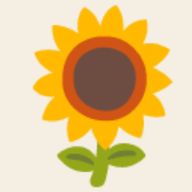
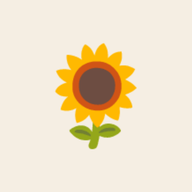
待辦區塊：工作與事業合併，新增購物、朋友、家人；App 圖示向日葵縮小
資料格式升級到版本 6，升級前自動備份；舊的「工作」「事業」任務改到「工作與事業」。

Claude-Session: https://claude.ai/code/session_01LfbQjq9Qd56uFV6H2tTUsn

diff --git a/index.html b/index.html
@@ -11,8 +11,8 @@
 <meta name="apple-mobile-web-app-capable" content="yes">
 <meta name="apple-mobile-web-app-status-bar-style" content="default">
 <link rel="manifest" href="manifest.webmanifest">
-<link rel="apple-touch-icon" href="icons/apple-touch-icon.png?v=2">
-<link rel="icon" type="image/png" sizes="32x32" href="icons/favicon-32.png?v=2">
+<link rel="apple-touch-icon" href="icons/apple-touch-icon.png?v=3">
+<link rel="icon" type="image/png" sizes="32x32" href="icons/favicon-32.png?v=3">
 <link rel="preconnect" href="https://fonts.googleapis.com">
 <link href="https://fonts.googleapis.com/css2?family=Noto+Serif+TC:wght@600;700&display=swap" rel="stylesheet">
 <style>
@@ -615,6 +615,9 @@ const P = {
   star:'<path d="M12 3l2 6.3 6.5 2.7-6.5 2.7L12 21l-2-6.3L3.5 12 10 9.3z"/>',
   work:'<rect x="3" y="7" width="18" height="13" rx="3"/><path d="M9 7V5.5A1.5 1.5 0 0 1 10.5 4h3A1.5 1.5 0 0 1 15 5.5V7M3 12.5h18"/>',
   biz:'<path d="M3 17l6-6 4 4 8-8"/><path d="M15 7h6v6"/>',
+  bag:'<path d="M5.5 8h13l-1.2 12h-10.6z"/><path d="M9 8V6.5a3 3 0 0 1 6 0V8"/>',
+  friends:'<circle cx="9" cy="9" r="3"/><circle cx="16.5" cy="10" r="2.4"/><path d="M3.5 19a5.5 5.5 0 0 1 11 0"/><path d="M14.2 15.3a4.4 4.4 0 0 1 6.3 3.7"/>',
+  family:'<path d="M4 11l8-6.5 8 6.5"/><path d="M6 9.5V20h12V9.5"/><path d="M12 17.2s-3-1.8-3-3.7a1.6 1.6 0 0 1 3-.8 1.6 1.6 0 0 1 3 .8c0 1.9-3 3.7-3 3.7z"/>',
   cam:'<path d="M4 8h3l2-3h6l2 3h3a1 1 0 0 1 1 1v9a1 1 0 0 1-1 1H4a1 1 0 0 1-1-1V9a1 1 0 0 1 1-1z"/><circle cx="12" cy="13" r="3.5"/>',
   wallet:'<rect x="3" y="6" width="18" height="14" rx="3"/><path d="M3 10h18M16 15h2"/>',
   book:'<path d="M4 19V5.5A2.5 2.5 0 0 1 6.5 3H20v15H6.5A2.5 2.5 0 0 0 4 20.5 2.5 2.5 0 0 0 6.5 23H20v-5"/>',
@@ -643,14 +646,17 @@ Object.assign(P, {
 const ic = (n, cls="") => `<svg class="i ${cls}" viewBox="0 0 24 24">${P[n]||""}</svg>`;
 
 /* ================= 2. 常數與共用工具 ================= */
-const CATS = ["工作","事業","內容創作","財務","學習","生活"];
+const CATS = ["工作與事業","內容創作","財務","學習","生活","購物","朋友","家人"];
+const OLD_WORK_CATS = ["工作","事業"];   // 版本 6 起合併為「工作與事業」
 const CAT = {
-  "工作":    {icon:"work",  ds:"任務、專案、工作進度、待辦事項"},
-  "事業":    {icon:"biz",   ds:"商業點子、收入計畫、執行進度"},
+  "工作與事業":{icon:"work", ds:"工作進度、專案、商業點子、收入計畫"},
   "內容創作":{icon:"cam",   ds:"IG 靈感、腳本、發文紀錄"},
   "財務":    {icon:"wallet",ds:"收入、支出、存款、目標"},
   "學習":    {icon:"book",  ds:"課程、筆記、技能"},
-  "生活":    {icon:"heart", ds:"心情、習慣、生活"}
+  "生活":    {icon:"heart", ds:"心情、習慣、生活"},
+  "購物":    {icon:"bag",   ds:"要買的東西、下單、補貨"},
+  "朋友":    {icon:"friends",ds:"聚會、約見面、朋友的事"},
+  "家人":    {icon:"family",ds:"家人的事、陪伴、家裡的安排"}
 };
 const PRI_ORDER = {"高":0,"中":1,"低":2};
 const uid = () => Date.now().toString(36)+Math.random().toString(36).slice(2,8);
@@ -683,7 +689,7 @@ const D = {
 /* ================= 4. 資料層 ================= */
 const KEY = "lifebox_v1";             // 不更改，舊資料持續可用
 const BK_KEY = "lifebox_v1_backups";  // 本機自動備份（最多 8 份）
-const SCHEMA = 5;
+const SCHEMA = 6;
 const Store = {
   load(){
     let raw=null, d=null;
@@ -742,6 +748,10 @@ const Store = {
     st.successes.forEach(x=>{ if(!Array.isArray(x.photos)) x.photos=[]; });
     d.wishlist.forEach(w=>wishNormalize(w));
     if((d.schemaVersion||1) < 5) d.schemaVersion=5;
+    // 版本 6：「工作」「事業」合併為「工作與事業」；新增「購物」「朋友」「家人」（只改區塊名稱，其他內容不動）
+    (d.todos||[]).forEach(t=>{ if(OLD_WORK_CATS.includes(t.category)) t.category="工作與事業"; if(OLD_WORK_CATS.includes(t.cat)) t.cat="工作與事業"; });
+    (d.results||[]).forEach(r=>{ if(OLD_WORK_CATS.includes(r.cat)) r.cat="工作與事業"; });
+    if((d.schemaVersion||1) < 6) d.schemaVersion=6;
     let maxOrder=d.todos.reduce((m,t)=>Math.max(m, Number.isFinite(t.sortOrder)?t.sortOrder:0),0);
     d.todos.forEach(t=>{ Tasks.normalize(t,T); if(!Number.isFinite(t.sortOrder)) t.sortOrder=++maxOrder; });
     return d;
@@ -771,7 +781,7 @@ const Tasks = {
   normalize(t, T){
     const now=Date.now();
     if(t.title==null) t.title = t.text ?? "";
-    if(t.category==null) t.category = CATS.includes(t.cat) ? t.cat : "生活";
+    if(t.category==null) t.category = CATS.includes(t.cat) ? t.cat : (OLD_WORK_CATS.includes(t.cat) ? "工作與事業" : "生活");
     if(t.priority==null) t.priority = PRI_ORDER[t.pri]!==undefined ? t.pri : "中";
     if(t.createdAt==null) t.createdAt = t.created ?? now;
     if(t.status!=="open" && t.status!=="done") t.status = t.done ? "done" : "open";
@@ -874,12 +884,14 @@ const Tasks = {
 
 /* ================= 6. 文字解析（規則判斷，不是 AI） ================= */
 const KW = {
-  "工作":["工作","會議","開會","報告","客戶","專案","老闆","主管","同事","簡報","email","信件","回信","提案","上班","公司","面試","履歷","交件"],
-  "事業":["事業","生意","創業","收入計畫","業績","下線","團隊","招募","銷售","訂單","產品","商業","點子","經營","客人","代理","合作","品牌"],
+  "工作與事業":["工作","會議","開會","報告","客戶","專案","老闆","主管","同事","簡報","email","信件","回信","提案","上班","公司","面試","履歷","交件","事業","生意","創業","收入計畫","業績","下線","團隊","招募","銷售","產品","商業","點子","經營","客人","代理","合作","品牌"],
   "內容創作":["ig","instagram","貼文","限動","限時動態","腳本","拍","影片","reels","靈感","剪輯","發文","文案","直播","粉絲","創作","youtube","小紅書","素材"],
   "財務":["錢","記帳","存款","存錢","支出","花費","繳","費","預算","保險","投資","卡費","薪水","房租","帳單","貸款","理財","股票"],
   "學習":["學","課","書","讀","筆記","技能","練習","英文","日文","考試","證照","研究","線上課"],
-  "生活":["運動","健身","睡","心情","家","吃","煮","買","醫生","朋友","家人","旅行","打掃","整理房間","習慣","喝水","休息","散步","洗衣","約"]
+  "生活":["運動","健身","睡","心情","吃","煮","醫生","旅行","打掃","整理房間","習慣","喝水","休息","散步","洗衣"],
+  "購物":["買","下單","購物","網購","蝦皮","團購","補貨","採買","訂購","超市","全聯","好市多","日用品","生活用品","購買","退貨","包裹","取貨"],
+  "朋友":["朋友","閨蜜","好友","同學","聚會","聚餐","約吃飯","約朋友","見面","唱歌","生日派對"],
+  "家人":["家人","家裡","爸","媽","爸媽","父母","老公","老婆","先生","太太","小孩","孩子","兒子","女兒","寶寶","阿公","阿嬤","外公","外婆","爺爺","奶奶","哥哥","姊姊","姐姐","弟弟","妹妹","家庭","回家","過年"]
 };
 
 const HIGH = ["今天","今晚","馬上","立刻","急","截止","明天","必須","一定要","deadline","到期","繳","交件","趕"];
@@ -1161,7 +1173,7 @@ function viewTodo(){
         ${taskList(list,{drag:canDrag})}
       </div>`;
   }
-  return hero("一件一件來，生活就會有方向。","待辦") + `<div class="body">${seg("todo",[["date","依日期"],["areas","六大區塊"]])}${inner}</div>`;
+  return hero("一件一件來，生活就會有方向。","待辦") + `<div class="body">${seg("todo",[["date","依日期"],["areas","依區塊"]])}${inner}</div>`;
 }
 
 /* --- 今日建議（原「今日安排」，已取消時間區塊） --- */
@@ -2684,7 +2696,7 @@ function maybeWelcome(){
 app.addEventListener("click", e=>{ if(e.target.closest("[data-opensettings]")) Sheet.settings(); });
 
 /* ---------- Emoji 系統（全站） ---------- */
-const CAT_E={"工作":"💼","事業":"📈","內容創作":"📸","財務":"💳","學習":"📚","生活":"🌿"};
+const CAT_E={"工作與事業":"💼","內容創作":"📸","財務":"💳","學習":"📚","生活":"🌿","購物":"🛍","朋友":"👯","家人":"🏡"};
 const HUB_E={habit:"🔁",mood:"💭",review:"🌙",goal:"🚩",wish:"🎁",profile:"👤",fin:"💳",kb:"🧠",report:"📊",reward:"🏅"};
 const HERO_E=Object.assign({"今日":"☀","收集":"📝","待辦":"✅","今日建議":"🗓","成長":"🌱","習慣打卡":"🔁","心情與日記":"💭","每日回顧":"🌙","目標":"🚩","願望清單":"🎁","個人資料庫":"👤","財務":"💳","第二大腦":"🧠","週報與月報":"📊","成長獎勵":"🏅"}, CAT_E);
 
@@ -2981,7 +2993,7 @@ function wishNormalize(w){
   if(!w.createdAt) w.createdAt=Date.now();
   wishSyncLegacy(w);
 }
-const WCAT2TASK={wealth:"財務",career:"工作",growth:"學習",goods:"財務"};
+const WCAT2TASK={wealth:"財務",career:"工作與事業",growth:"學習",goods:"購物",love:"朋友",home:"家人"};
 
 /* ---------- 月相（Meeus《天文演算法》第 49 章；已用天文程式庫比對驗證） ---------- */
 const Moon = {

diff --git a/sw.js b/sw.js
@@ -1,7 +1,7 @@
 /* 🌻芊的工具檯：離線使用
    - 只快取 App 本身的檔案（頁面、圖示、字型），不碰使用者資料（localStorage / IndexedDB）。
    - 有網路時一律先抓最新版，抓不到才用快取，所以改版會直接生效。 */
-const CACHE = "qian-tools-v2";
+const CACHE = "qian-tools-v3";
 const CORE = ["./", "./index.html", "./manifest.webmanifest", "./icons/icon-192.png", "./icons/icon-512.png", "./icons/apple-touch-icon.png"];
 
 self.addEventListener("install", e => {

diff --git a/tests/t8.py b/tests/t8.py
@@ -7,7 +7,8 @@ R=[]
 def ok(n,c,extra=""): R.append(("PASS" if c else "FAIL")+"  "+n+(("  ["+str(extra)[:300]+"]") if (not c and extra!="") else ""))
 TZ=datetime.timezone(datetime.timedelta(hours=8))
 T0=datetime.datetime(2026,11,13,9,0,tzinfo=TZ)
-v4={"schemaVersion":4,"todos":[{"id":"t1","title":"剪影片","text":"剪影片","category":"內容創作","cat":"內容創作","priority":"高","pri":"高","scheduledDate":"2026-11-13","dueDate":None,"createdAt":1,"created":1,"completedAt":None,"status":"open","done":False,"sortOrder":1,"rolloverCount":0,"rolloverHistory":[],"updatedAt":1,"mins":60,"description":""}],
+v4={"schemaVersion":4,"todos":[{"id":"t1","title":"剪影片","text":"剪影片","category":"內容創作","cat":"內容創作","priority":"高","pri":"高","scheduledDate":"2026-11-13","dueDate":None,"createdAt":1,"created":1,"completedAt":None,"status":"open","done":False,"sortOrder":1,"rolloverCount":0,"rolloverHistory":[],"updatedAt":1,"mins":60,"description":""},
+  {"id":"t2","title":"招募新夥伴","text":"招募新夥伴","category":"事業","cat":"事業","priority":"中","pri":"中","scheduledDate":"2026-11-13","dueDate":None,"createdAt":2,"created":2,"completedAt":None,"status":"open","done":False,"sortOrder":2,"rolloverCount":0,"rolloverHistory":[],"updatedAt":2,"mins":30,"description":""}],
   "results":[],"plans":[],"cards":[{"date":"2026-11-01","level":"大吉"}],"draft":"","lastRolloverDate":"2026-11-13",
   "wishlist":[{"id":"w1","title":"去京都看紅葉","type":"旅遊","status":"want","priority":"中","budget":30000,"note":"秋天","createdAt":5},
               {"id":"w2","title":"買相機","type":"購物","status":"done","priority":"高","budget":20000,"doneDate":"2026-10-01","actualCost":18000,"createdAt":6}],
@@ -30,7 +31,7 @@ with sync_playwright() as p:
     pg.evaluate("Store.save && save()")
     ok("損壞資料：操作後仍不寫入", pg.evaluate("localStorage.getItem('lifebox_v1')")=="{壞掉的資料")
     pg.click('[data-lockopen]'); pg.click('#sheet [data-opt="2"]'); pg.click('#sheet [data-opt="0"]')
-    ok("確認「重新開始」後才寫入新資料", st(pg) and st(pg)['schemaVersion']==5 and pg.locator('.lockbar').count()==0)
+    ok("確認「重新開始」後才寫入新資料", st(pg) and st(pg)['schemaVersion']==6 and pg.locator('.lockbar').count()==0)
     ok("損壞情境沒有程式錯誤", not errs, errs); ctx.close()
     # ===== P0：升級前備份失敗 =====
     ctx=b.new_context(viewport={'width':390,'height':844},timezone_id='Asia/Taipei'); pg=ctx.new_page(); pg.clock.install(time=T0)
@@ -42,8 +43,12 @@ with sync_playwright() as p:
     # ===== 正常升級 v4 → v5 =====
     ctx,pg,errs=fresh(b,v4)
     s=st(pg)
-    ok("升級到版本 5，原資料完整保留", s['schemaVersion']==5 and len(s['todos'])==1 and len(s['wishlist'])==2 and s['cards']==v4['cards'])
-    ok("升級前備份，原因寫明版本 4 → 5", any("版本 4 → 5" in x['reason'] and json.loads(x['data'])['schemaVersion']==4 for x in bks(pg)))
+    ok("升級到版本 6，原資料完整保留", s['schemaVersion']==6 and len(s['todos'])==2 and len(s['wishlist'])==2 and s['cards']==v4['cards'])
+    ok("「事業」任務合併到「工作與事業」，其他內容不變", [t['category'] for t in s['todos']]==["內容創作","工作與事業"] and s['todos'][1]['title']=="招募新夥伴" and s['todos'][1]['cat']=="工作與事業")
+    cls=pg.evaluate("['下單可可奶茶','週末跟朋友聚餐','陪媽媽看醫生回家','開會準備提案','預約牙醫'].map(x=>Parser.classify(x).cat)")
+    ok("新區塊自動分類：購物、朋友、家人、工作與事業", cls[:4]==["購物","朋友","家人","工作與事業"], cls)
+    ok("待辦區塊共 8 個（工作與事業、購物、朋友、家人）", pg.evaluate("CATS.join()")=="工作與事業,內容創作,財務,學習,生活,購物,朋友,家人")
+    ok("升級前備份，原因寫明版本 4 → 6", any("版本 4 → 6" in x['reason'] and json.loads(x['data'])['schemaVersion']==4 for x in bks(pg)))
     ok("建立 star 資料區與個人亂數種子", isinstance(s['star']['draws'],list) and len(s['star']['profile']['seed'])>4)
     w1,w2=s['wishlist']
     ok("舊願望補上顯化欄位（分類對應）", w1['category']=="travel" and w1['mstatus']=="manifesting" and w1['desc']=="秋天" and w1['budget']==30000)
@@ -59,8 +64,8 @@ with sync_playwright() as p:
     pg.click('[data-tab=todo]'); pg.wait_for_timeout(100)
     if pg.locator('[data-del]').count():
         pg.locator('[data-del]').first.click()
-        ok("刪除待辦後出現「復原」", pg.locator('#undo.show').count()==1 and len(st(pg)['todos'])==0)
-        pg.click('#undoBtn'); ok("按復原，待辦完整回來", len(st(pg)['todos'])==1 and st(pg)['todos'][0]['title']=="剪影片")
+        ok("刪除待辦後出現「復原」", pg.locator('#undo.show').count()==1 and len(st(pg)['todos'])==1)
+        pg.click('#undoBtn'); ok("按復原，待辦完整回來", len(st(pg)['todos'])==2 and sorted(t['title'] for t in st(pg)['todos'])==sorted(['剪影片','招募新夥伴']))
     else: ok("刪除按鈕存在", False)
     # ===== 星光秘境 =====
     pg.click('[data-tab=card]')

diff --git a/tests/t4d.py b/tests/t4d.py
@@ -29,7 +29,7 @@ with sync_playwright() as p:
     ok("舊資料完整讀取（3 件待辦、1 整理、1 建議、1 抽卡、草稿）", len(s['todos'])==3 and len(s['results'])==1 and len(s['plans'])==1 and len(s['cards'])==1 and s['draft']=="舊草稿")
     ups=lambda: [b for b in bks() if '升級' in b['reason']]
     ok("升級前自動備份原始資料", len(ups())==1 and json.loads(ups()[0]['data'])==old)
-    ok("資料版本標記為 5", s.get('schemaVersion')==5)
+    ok("資料版本標記為 5", s.get('schemaVersion')==6)
     ok("舊欄位保留（text/cat/pri/done/created）", all(k in t['a1'] for k in ['text','cat','pri','done','created']))
     ok("新欄位補齊（title/category/priority/scheduledDate/dueDate/createdAt/status/sortOrder/rolloverCount/rolloverHistory/updatedAt）", all(k in t['a1'] for k in ['title','category','priority','scheduledDate','dueDate','createdAt','completedAt','status','sortOrder','rolloverCount','rolloverHistory','updatedAt','description']))
     ok("舊任務安排在今天、建立時間不變", t['a1']['scheduledDate']=="2026-11-13" and t['a1']['createdAt']==1)
@@ -134,7 +134,7 @@ with sync_playwright() as p:
     pg.click('#btnSettings')
     with pg.expect_download() as dl: pg.click('[data-act=export]')
     path=dl.value.path(); exp=json.load(open(path,encoding='utf-8'))
-    ok("匯出備份檔內容完整", len(exp['data']['todos'])==len(st()['todos']) and exp['schemaVersion']==5, dl.value.suggested_filename)
+    ok("匯出備份檔內容完整", len(exp['data']['todos'])==len(st()['todos']) and exp['schemaVersion']==6, dl.value.suggested_filename)
     pg.screenshot(path=str(OUT/'settings.png'))
     n=len(st()['todos'])
     pg.set_input_files('#importFile',path); pg.wait_for_selector('[data-opt]'); pg.click('[data-opt="0"]')

diff --git a/tests/t5d.py b/tests/t5d.py
@@ -20,7 +20,7 @@ with sync_playwright() as p:
     st=lambda: pg.evaluate("JSON.parse(localStorage.getItem('lifebox_v1'))")
     bks=lambda: pg.evaluate("JSON.parse(localStorage.getItem('lifebox_v1_backups')||'[]')")
     s=st()
-    ok("第一階段資料升級到版本 5，待辦完整保留", s['schemaVersion']==5 and len(s['todos'])==2 and s['todos'][0]['sortOrder']==1)
+    ok("第一階段資料升級到版本 6，待辦完整保留", s['schemaVersion']==6 and len(s['todos'])==2 and s['todos'][0]['sortOrder']==1)
     ok("升級前自動備份第一階段資料", len([b for b in bks() if '升級' in b['reason']])==1 and json.loads([b for b in bks() if '升級' in b['reason']][0]['data'])['schemaVersion']==2)
     ok("新增的資料區都建立好（空的）", all(isinstance(s.get(k),list) for k in ["habits","habitRecords","moodRecords","journalEntries","reviews","goals","wishlist"]) and s['personalProfile']=={"entries":[]})
     ok("底部導覽維持 5 個（成長已合併到首頁）", [x.inner_text().strip().split(chr(10))[0] for x in pg.locator('#tabbar button').all()]==["今日","收集","待辦","安排","星光秘境"], [x.inner_text().strip() for x in pg.locator('#tabbar button').all()])

diff --git a/tests/t6e.py b/tests/t6e.py
@@ -17,7 +17,7 @@ with sync_playwright() as p:
     st=lambda: pg.evaluate("JSON.parse(localStorage.getItem('lifebox_v1'))")
     bks=lambda: pg.evaluate("JSON.parse(localStorage.getItem('lifebox_v1_backups')||'[]')")
     def hubgo(k): pg.click('[data-tab=home]'); pg.click(f'.row[data-ghub={k}]')
-    s=st(); ok("新資料版本 5，財務／第二大腦／獎勵／設定都建立", s['schemaVersion']==5 and s['fin']=={"accounts":[],"tx":[],"budgets":[],"savings":[]} and s['knowledge']==[] and 'rules' in s['reward'] and 'home' in s['settings'])
+    s=st(); ok("新資料版本 6，財務／第二大腦／獎勵／設定都建立", s['schemaVersion']==6 and s['fin']=={"accounts":[],"tx":[],"budgets":[],"savings":[]} and s['knowledge']==[] and 'rules' in s['reward'] and 'home' in s['settings'])
     # ===== 上個月：存一筆韓國餐廳（給搜尋測試用） =====
     hubgo('kb'); pg.click('#kNew'); pg.fill('#kTitle','首爾烤肉餐廳'); pg.fill('#kContent','弘大附近，排隊要早點去 #韓國 #餐廳')
     ok("第二大腦依內容自動建議類型（旅遊）", pg.input_value('#kType')=="旅遊")

diff --git a/CLAUDE.md b/CLAUDE.md
@@ -11,7 +11,7 @@
 ## 一定要遵守的規則
 1. 以現有 `index.html` 為基礎直接修改，不要從零重做；保留 UI、配色、字體、版面，不得擅自刪除功能。
 2. 資料存在 localStorage `lifebox_v1`（備份 `lifebox_v1_backups`、圖片在 IndexedDB `lifeos_files`）。
-   不得清除、覆蓋或重設使用者資料；改資料格式要用版本化 migration（目前 schemaVersion 5），先備份再遷移。
+   不得清除、覆蓋或重設使用者資料；改資料格式要用版本化 migration（目前 schemaVersion 6），先備份再遷移。
 3. 不增加未確認的功能；不做假按鈕；沒有功能的不要放上畫面。
 4. 不得把前端規則說成 AI 或雲端；不得宣稱未測試的為已測試。
 5. 待辦：不用時間區塊排程，以彈性待辦為核心；未完成自動順延，保留原建立日與延期歷史，不重複建立；
@@ -22,6 +22,7 @@
    大天使神諭卡依真實天使傳統（名字原意、典籍出處）；星座運勢、個人星盤、盧恩符文、易經已依使用者要求移除，不要加回。
 9. App 已完全移除 AI 與雲端同步（使用者決定），不要加回；所有資料只存在使用者自己的裝置。
 10. 介面全站使用 emoji；財務帳戶類型包含「股票」。
+11. 待辦區塊共 8 個：工作與事業、內容創作、財務、學習、生活、購物、朋友、家人（「工作」「事業」已合併，版本 6 遷移）。
 
 ## 測試
 ```
@@ -29,7 +30,7 @@ pip install playwright && python -m playwright install chromium
 cd tests && npm install        # 月相比對用的 astronomy-engine
 python t4d.py && python t5d.py && python t6e.py && python t7b.py && python t8.py
 ```
-每次修改後全部跑過；目前共 221 項全部通過（t7b 改為「確認沒有 AI 與雲端同步」）。改版面時用 390px 與 360px 寬度截圖檢查。
+每次修改後全部跑過；目前共 224 項全部通過（t7b 改為「確認沒有 AI 與雲端同步」）。改版面時用 390px 與 360px 寬度截圖檢查。
 
 ## 發布
 靜態網站（Netlify 或 GitHub Pages），`index.html` 放在根目錄。

diff --git a/HANDOFF.md b/HANDOFF.md
@@ -9,8 +9,8 @@
 
 ## 1. 目前狀態
 
-- **App 檔案**：`index.html`，單一檔案，約 390 KB，資料格式 schemaVersion 5。
-- **測試**：`tests/` 5 組共 221 項，全部通過（t4d 57、t5d 54、t6e 50、t7b 12、t8 48）。
+- **App 檔案**：`index.html`，單一檔案，約 390 KB，資料格式 schemaVersion 6。
+- **測試**：`tests/` 5 組共 224 項，全部通過（t4d 57、t5d 54、t6e 50、t7b 12、t8 51）。
 - **手機 App 化（PWA）**：`manifest.webmanifest`、`sw.js`、`icons/`。加入主畫面有 🌻 圖示、沒有網址列、沒網路也能開。sw.js 只快取 App 檔案，有網路一律先抓最新版；改版後如要強制更新可把 `CACHE` 版本號加 1。
 - **AI 與雲端同步已完全移除**（2026-11-14 使用者決定）。舊資料裡的 aiNote 會以「回顧筆記」顯示。
 - **Claude 裡的版本**：https://claude.ai/artifact/R3kpUvzFJW5SC8on7CLMkd（只有擁有者登入後能看）。
